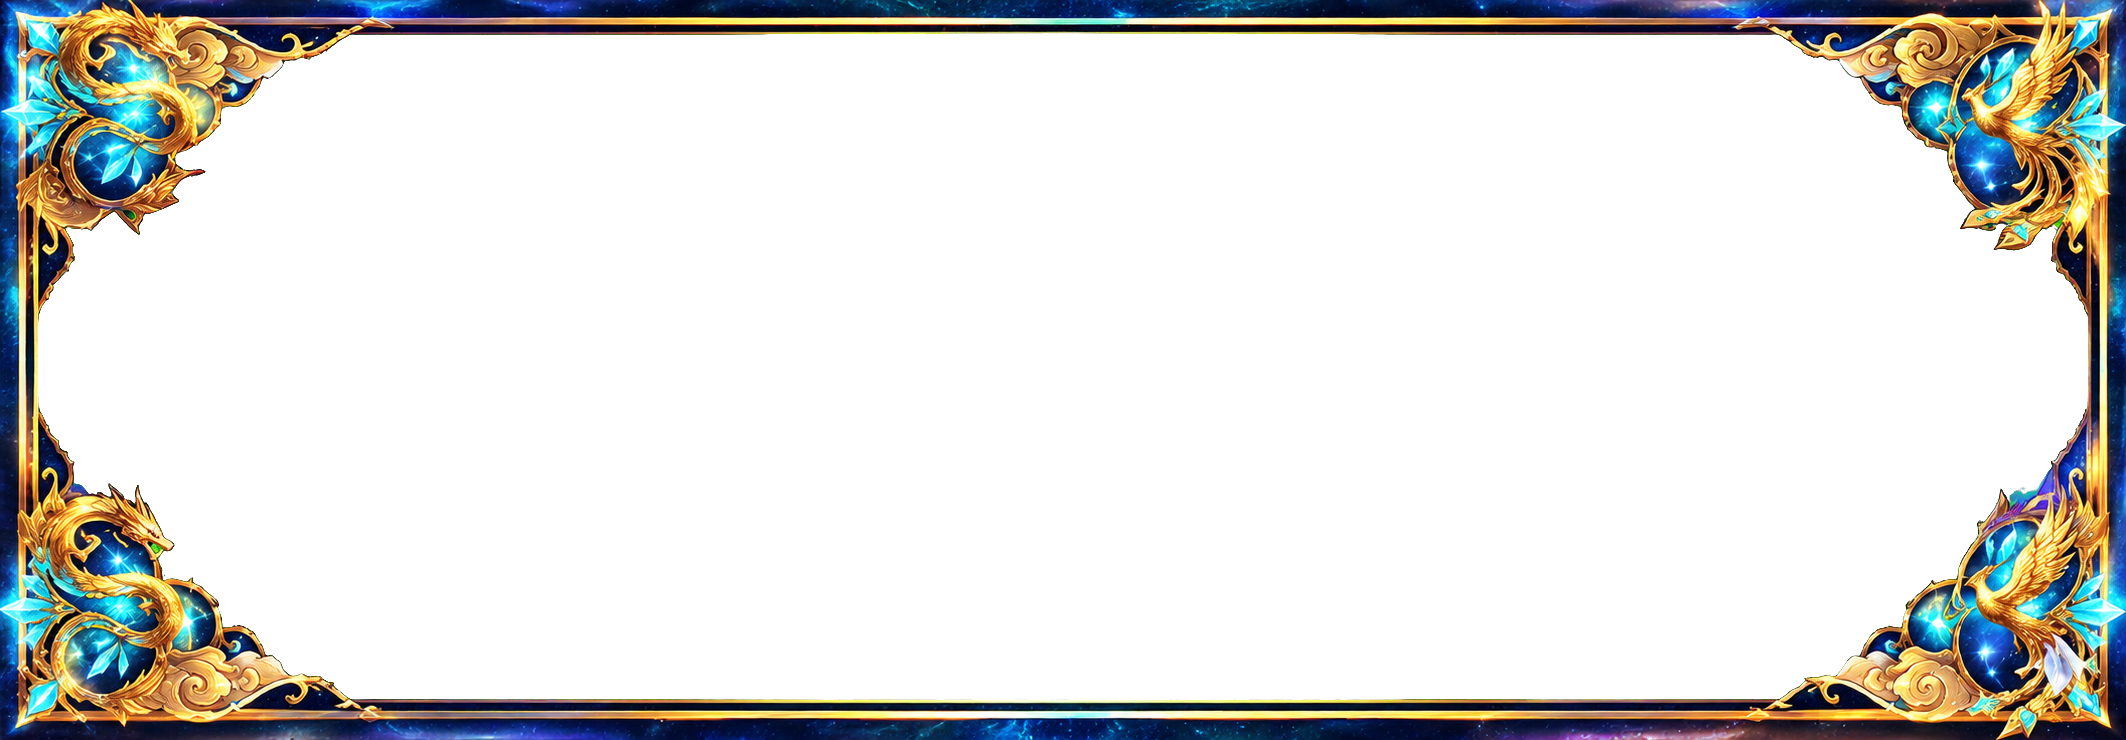
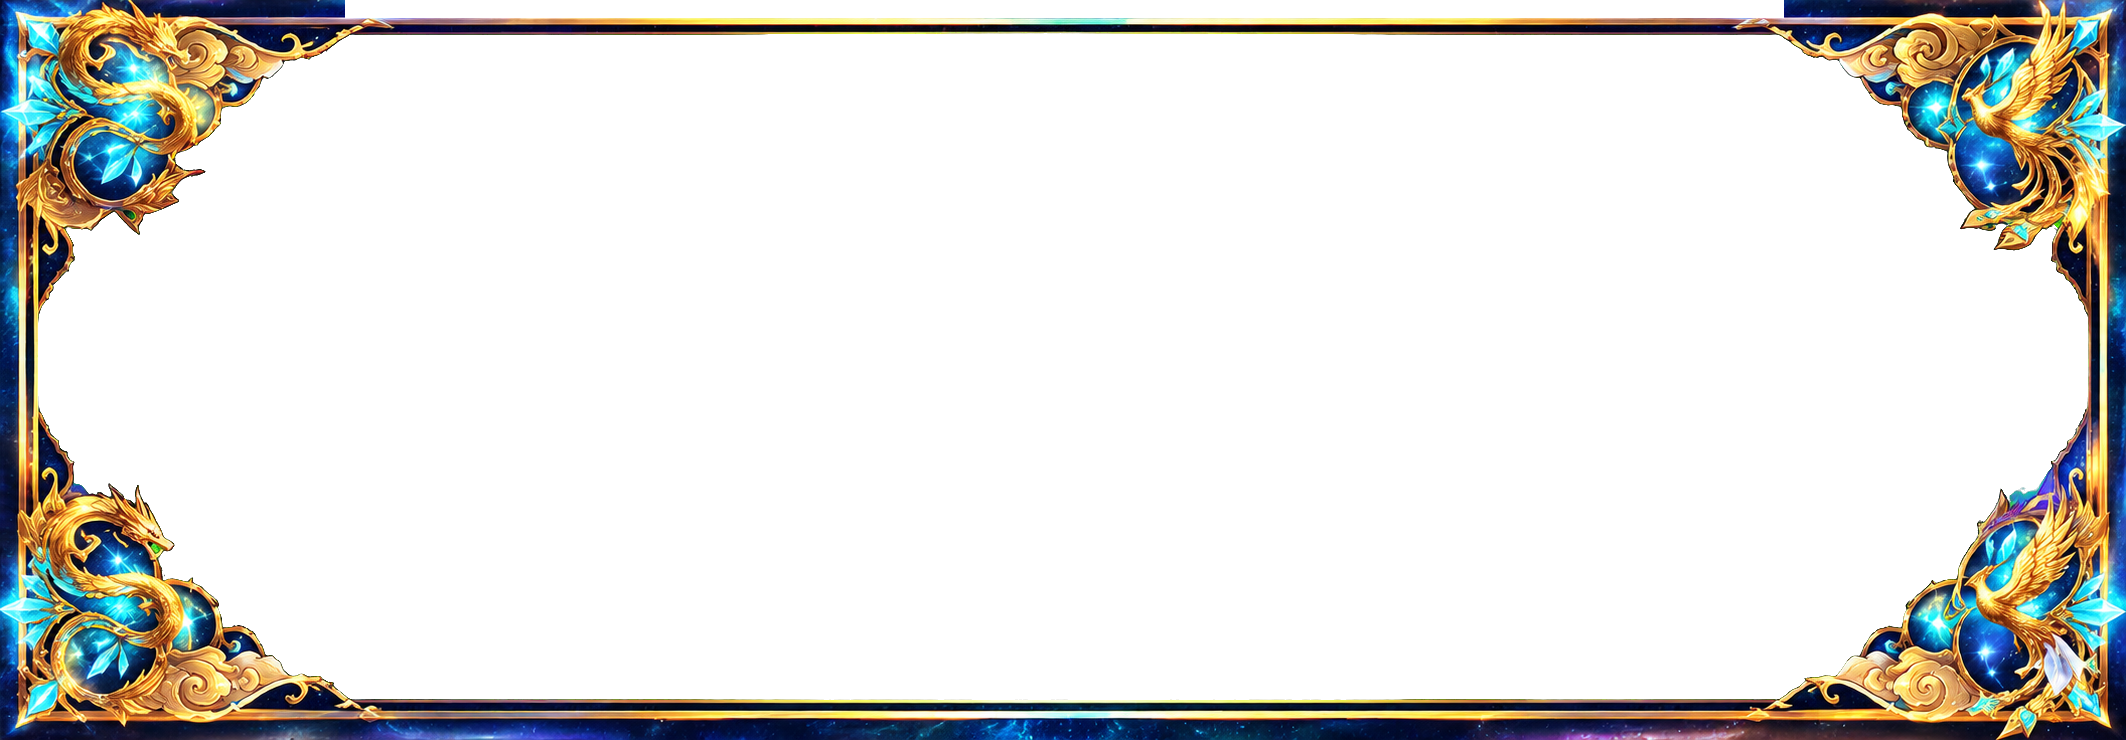
Hai khung sát nhau: cắt viền xanh phát sáng ở chỗ giáp, khung trên rộng thêm (BP 86, ct 18, e.b 30)

Changed region(s): [[0.1552, 0.0, 0.8382, 0.0311]]

diff --git a/game-moi/52-nut-vuong.js b/game-moi/52-nut-vuong.js
@@ -8,9 +8,10 @@
 (function(){
 'use strict';
 var CFG={
-  size:38,    /* cạnh nút. 2 hàng: 2*size + gap phải nhỏ hơn BP (88 trong index.html) trừ viền khung (~9) */
+  size:38,    /* cạnh nút. 2 hàng: 2*size + gap phải nhỏ hơn BP (86 trong index.html) trừ viền khung (~9) */
   gap:2,      /* khe giữa các nút */
   rows:2,     /* số hàng trong khung dưới */
+  dy:-1.5,   /* dịch cả khối nút lên (-) / xuống (+) cho cân với ô trong khung (viền trên mỏng hơn viền dưới) */
   left:42,    /* chừa bên trái cho họa tiết góc khung dưới */
   fill:'col', /* 'col' = xếp theo cột (nút 2 nằm dưới nút 1) | 'row' = xếp theo hàng */
   frame:'game-moi/khung-nut.webp?v=2'
@@ -43,7 +44,7 @@ function add(o){
 function layout(m){
   M=m||M;if(!M)return;
   var f=M.K/M.DPR,s=CFG.size*f,g=CFG.gap*f,x0=(M.I.l+CFG.left)*f,pt=(M.th+M.GAPB)*f,rows=Math.max(1,CFG.rows),
-      blk=rows*s+(rows-1)*g,y0=pt+Math.max(0,(M.BP*f-blk)/2);
+      blk=rows*s+(rows-1)*g,y0=pt+Math.max(0,(M.BP*f-blk)/2)+(CFG.dy||0)*f;
   var used={},pos=[];
   /* lượt 1: nút có chỉ định hàng (o.r: 0 = hàng trên, 1 = hàng dưới) -> đứng ở ô trống đầu tiên của hàng đó, nên Balo và Thú Thần nằm CÙNG HÀNG */
   list.forEach(function(it,i){if(it.o.r==null)return;var r=Math.min(Math.max(0,it.o.r|0),rows-1),c=0;while(used[c+','+r])c++;used[c+','+r]=1;pos[i]=[c,r];});

diff --git a/game-moi/GHI_CHU.md b/game-moi/GHI_CHU.md
@@ -34,3 +34,8 @@ Nút **Khung: HD 256 / 128** (cùng hàng với nút đổi bậc): bấm để 
 ## Thanh nút to hơn (19/11/2026)
 - `BP` (cao khung dưới) 70 -> 88; nút vuông 29 -> 38, chừa góc trái 34 -> 42 (`CFG.left`). Khung trên còn cao 270 (trước 288), thú giữ nguyên cỡ.
 - Sức chứa: màn rộng 780 ≈ 17 ô/hàng x 2 hàng; màn 640 ≈ 13 ô/hàng. Hàng 0 (r:0) cho chức năng chính, hàng 1 (r:1) cho chức năng phụ. Quá nhiều nút thì làm vuốt ngang hoặc nút "Thêm".
+
+## Hai khung sát nhau, bỏ viền xanh phát sáng ở chỗ giáp (19/11/2026)
+- `khung-sanh.webp`: cắt 14 hàng đáy (dải xanh phát sáng ngoài vạch vàng) -> 1843x816. `FRM.top`: h 816, sb 248, e.b 30.
+- `khung-hang-nut.webp`: xóa trong suốt 18 hàng đỉnh (dải sao ngoài) ở PHẦN GIỮA, giữ nguyên 2 góc (sừng rồng chồng lên khung trên ~2 đơn vị). `FRM.bot.ct = 18`: khung dưới vẽ lấn lên trên đúng bằng số hàng này.
+- `BP` 88 -> 86 (viền trên khung dưới mỏng hơn nên vẫn đủ chỗ 2 hàng nút 38). `GAPB` = 0. Khung trên cao 274, chân thú ở y≈264 (trước ≈257): vùng cảnh rộng thêm ~7 đơn vị. `CFG.dy` (52-nut-vuong.js) dịch khối nút lên/xuống cho cân.
